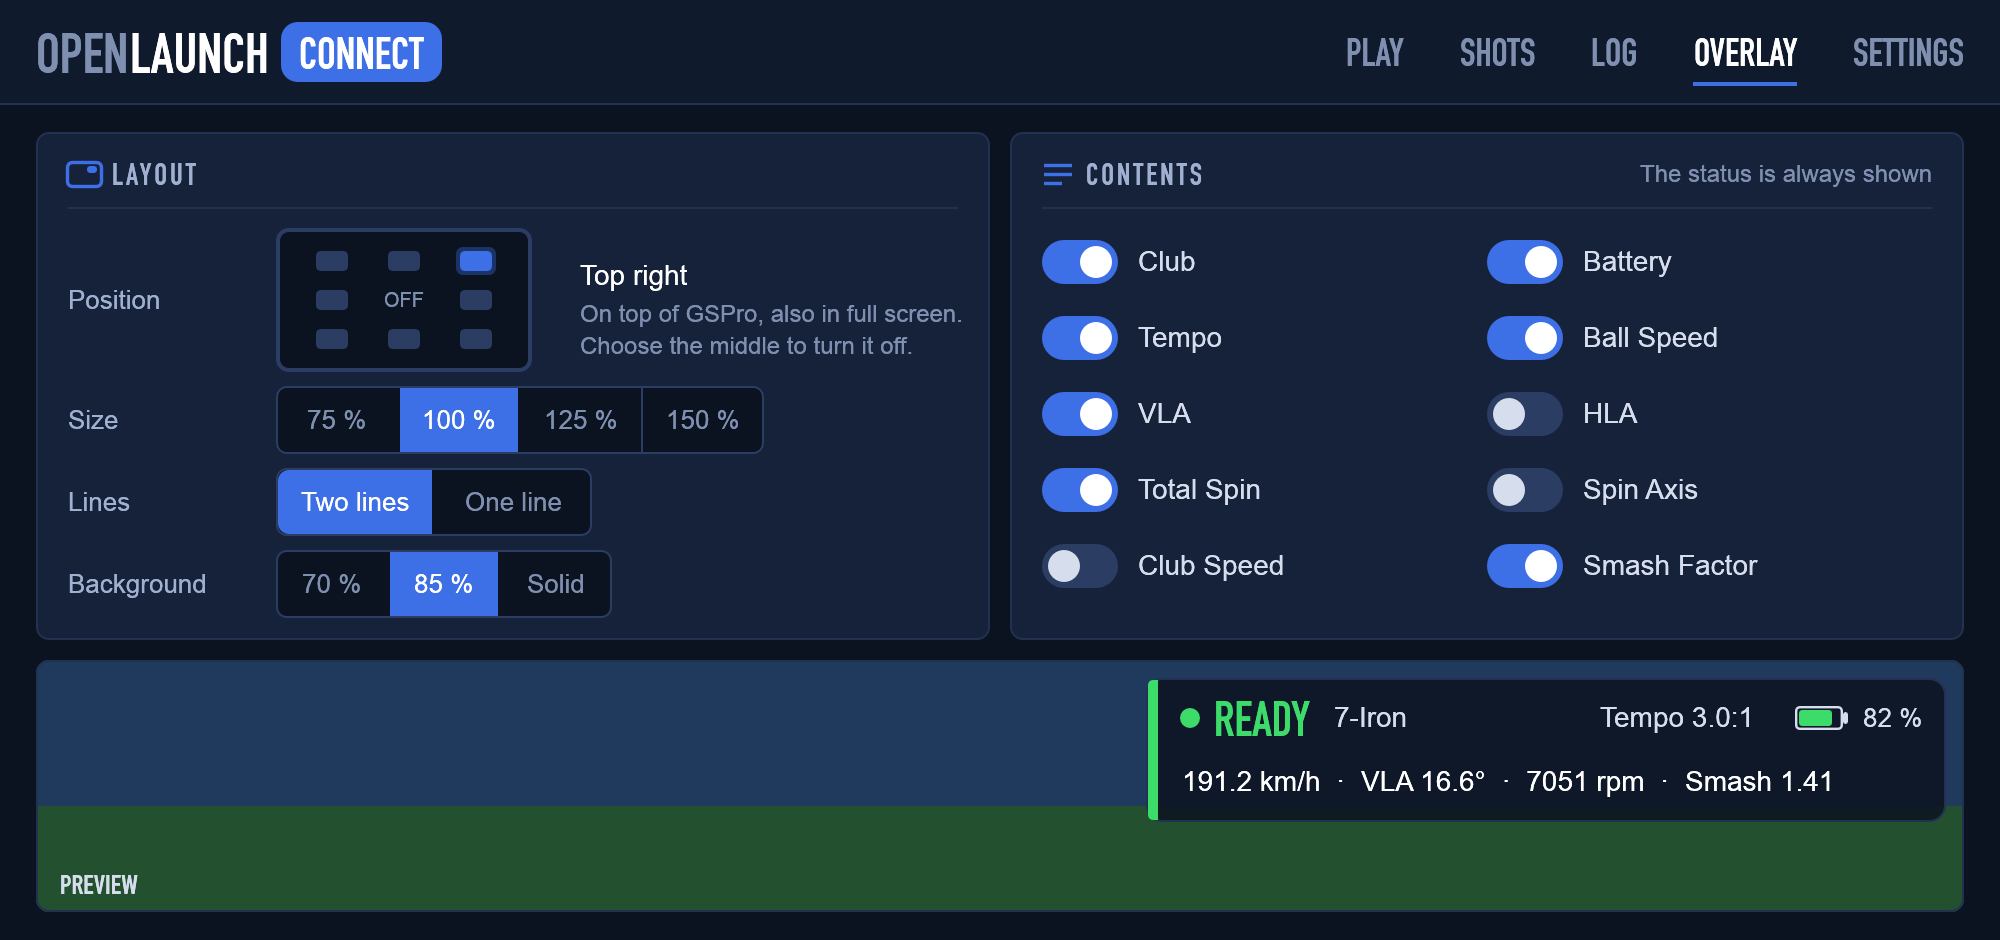
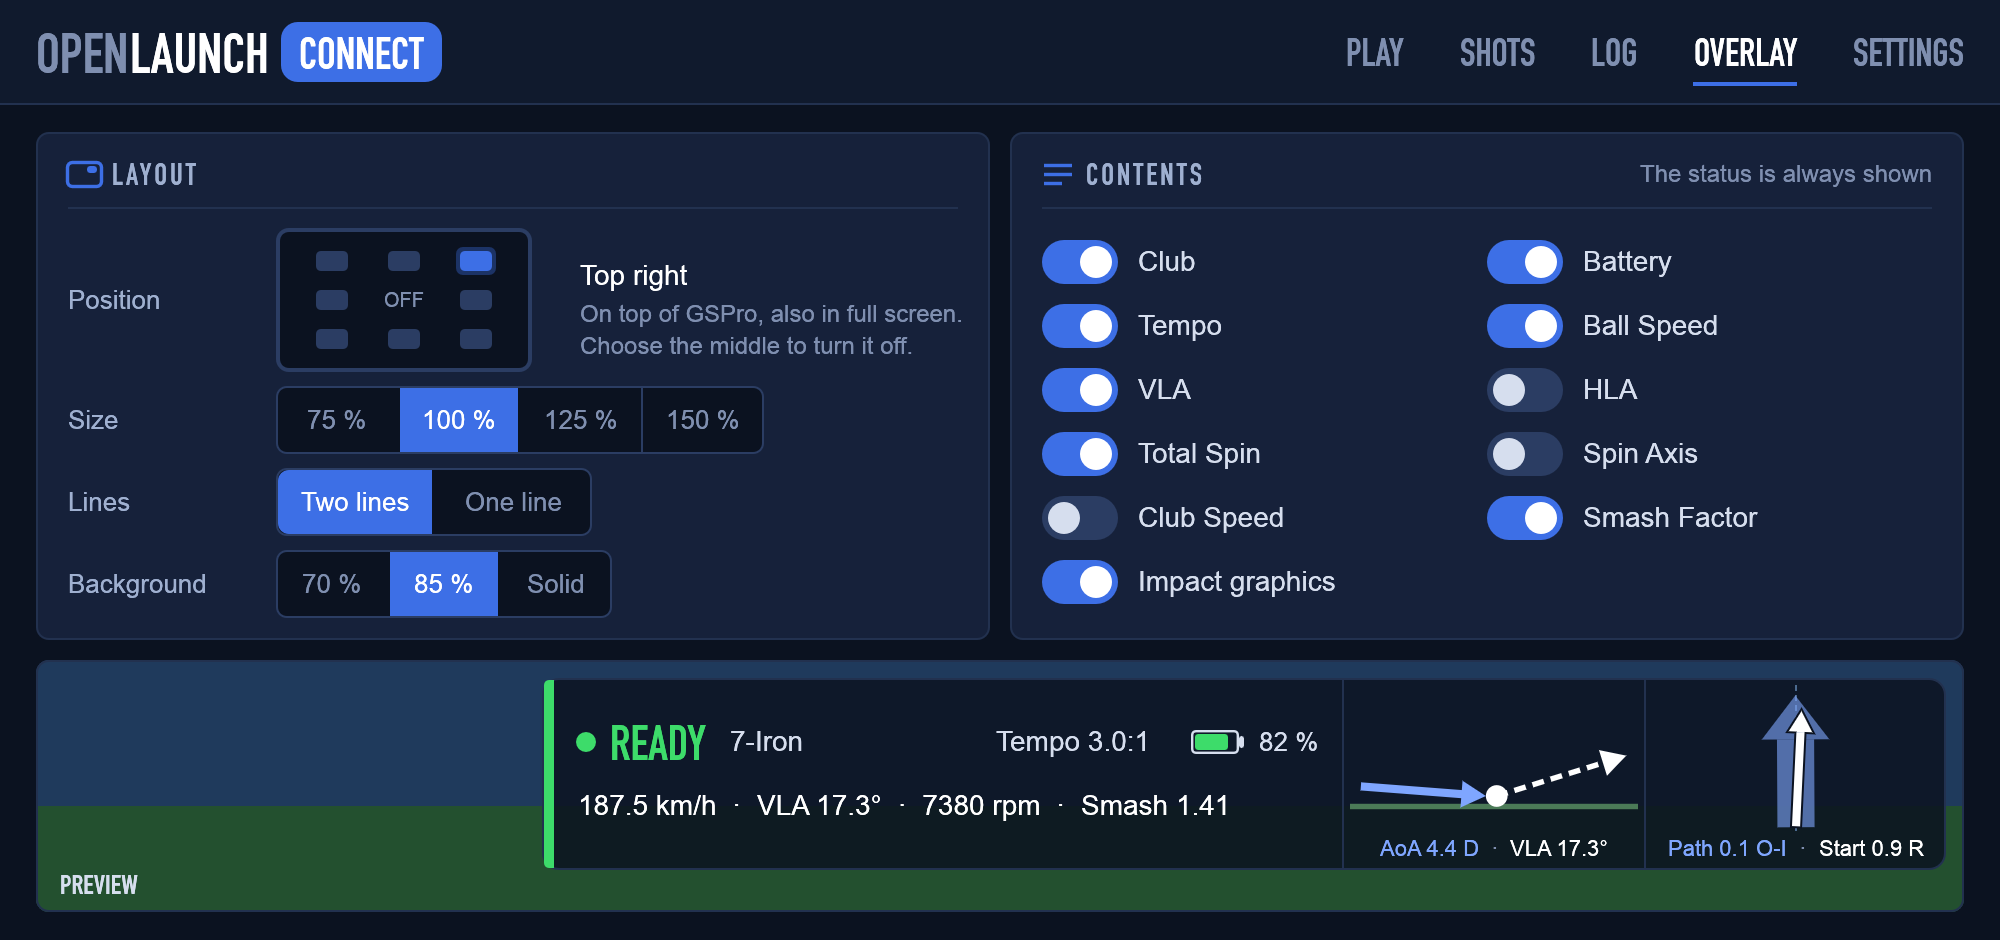
Overlay: impact graphics (angle of attack / launch angle, club path / start direction)
Two small graphics right of the text, as in the mock: side view with the
club head arriving at the angle of attack and the ball leaving at VLA; top
view with a broad club-path arrow (no outline) and a narrow start-direction
arrow on top, angles drawn 3x. Values as captions underneath; the two-line
overlay grows to 96 px with them, the one-line one keeps small graphics
without captions. Toggle on the overlay page. Also: the page-name test no
longer switches the global language (raced other tests).

Changed region(s): [[0.248, 0.7096, 0.992, 0.9255], [0.496, 0.3085, 0.682, 0.6479], [0.744, 0.3085, 0.868, 0.6479]]

diff --git a/src/bin/openlaunch-connect.rs b/src/bin/openlaunch-connect.rs
@@ -849,7 +849,7 @@ impl App {
 
         card(ui, right, tr("CONTENTS"), Icon::List, |ui| {
             let s = &mut style;
-            let items: [(&mut bool, &str); 10] = [
+            let items: [(&mut bool, &str); 11] = [
                 (&mut s.club, tr("Club")),
                 (&mut s.battery, tr("Battery")),
                 (&mut s.tempo, tr("Tempo")),
@@ -860,11 +860,12 @@ impl App {
                 (&mut s.spin_axis, tr("Spin Axis")),
                 (&mut s.club_speed, tr("Club Speed")),
                 (&mut s.smash, tr("Smash Factor")),
+                (&mut s.impact, tr("Impact graphics")),
             ];
             let body = ui.max_rect();
             let cell_w = body.width() / 2.0;
             for (i, (on, label)) in items.into_iter().enumerate() {
-                let r = Rect::from_min_size(body.min + vec2((i % 2) as f32 * cell_w, (i / 2) as f32 * 38.0), vec2(cell_w, 34.0));
+                let r = Rect::from_min_size(body.min + vec2((i % 2) as f32 * cell_w, (i / 2) as f32 * 32.0), vec2(cell_w, 30.0));
                 ui.scope_builder(egui::UiBuilder::new().max_rect(r).layout(egui::Layout::left_to_right(egui::Align::Center)), |ui| {
                     toggle(ui, on, label);
                 });
@@ -1679,6 +1680,8 @@ fn status_word(r10: R10Status, gs_ok: bool) -> (Color32, &'static str) {
 /// Overlay content: status, club and battery on top; last shot (or what's wrong) below.
 /// Space for the battery at the right of the overlay's status row.
 const OVERLAY_BATTERY_W: f32 = 96.0;
+/// Height of the two-line overlay with the impact graphics.
+const OVERLAY_IMPACT_H: f32 = 96.0;
 
 /// What the overlay shows: the status word, the chosen extras and one line with the
 /// chosen values of the last shot (or what's wrong).
@@ -1692,6 +1695,17 @@ struct OverlayContent {
     line_color: Color32,
     one_line: bool,
     opacity: f32,
+    /// Angles for the impact graphics (when on and a shot is shown).
+    impact: Option<Impact>,
+}
+
+/// What the impact graphics show, in degrees: angle of attack and club path need club data.
+#[derive(Clone, Copy)]
+struct Impact {
+    aoa: Option<f64>,
+    vla: f64,
+    path: Option<f64>,
+    hla: f64,
 }
 
 impl OverlayContent {
@@ -1731,7 +1745,14 @@ impl OverlayContent {
             }
             (None, true) => (tr("Hit away").to_string(), SOFT),
         };
+        let impact = last.filter(|s| style.impact && ready && s.delivered).map(|s| Impact {
+            aoa: s.club.map(|c| c.angle_of_attack),
+            vla: s.ball.vla,
+            path: s.club.map(|c| c.path),
+            hla: s.ball.hla,
+        });
         Self {
+            impact,
             color,
             word,
             club: club.filter(|_| style.club).map(club_name),
@@ -1749,15 +1770,23 @@ impl OverlayContent {
         let w = |text: &str, font: FontId| ctx.fonts_mut(|f| f.layout_no_wrap(text.to_string(), font, WHITE).size().x);
         let extra = |text: &Option<String>, gap: f32| text.as_deref().map_or(0.0, |t| gap + w(t, FontId::proportional(14.0)));
         let battery = if self.battery.is_some() { OVERLAY_BATTERY_W } else { 14.0 };
-        if self.one_line {
+        let text = if self.one_line {
             let line = if self.line.is_empty() { 0.0 } else { 16.0 + w(&self.line, FontId::proportional(14.0)) };
             let width = 18.0 + 16.0 + w(self.word, cond(20.0)) + extra(&self.club, 12.0) + line + battery;
             vec2(width.ceil(), 40.0)
         } else {
             let top = 18.0 + 16.0 + w(self.word, cond(24.0)) + extra(&self.club, 12.0) + extra(&self.tempo, 24.0) + battery;
             let bottom = 18.0 + w(&self.line, FontId::proportional(14.0)) + 14.0;
-            vec2(top.max(bottom).max(OVERLAY_SIZE.x).ceil(), OVERLAY_SIZE.y)
-        }
+            // Taller with the impact graphics, which have their values underneath.
+            let h = if self.impact.is_some() { OVERLAY_IMPACT_H } else { OVERLAY_SIZE.y };
+            vec2(top.max(bottom).max(OVERLAY_SIZE.x).ceil(), h)
+        };
+        text + vec2(self.graphics_width(), 0.0)
+    }
+
+    /// Room for the two impact graphics on the right (none without them).
+    fn graphics_width(&self) -> f32 {
+        if self.impact.is_some() { 2.0 * (impact_panel_width(self.one_line) + 1.0) } else { 0.0 }
     }
 }
 
@@ -1797,9 +1826,25 @@ fn overlay_ui(p: &egui::Painter, rect: Rect, c: &OverlayContent) {
         CornerRadius { nw: 7, sw: 7, ne: 0, se: 0 },
         c.color,
     );
+    // The impact graphics take the right end; the text the rest.
+    let graphics = c.graphics_width();
+    if let Some(impact) = c.impact {
+        let w = impact_panel_width(c.one_line);
+        let side = Rect::from_min_size(pos2(rect.right() - graphics + 1.0, rect.top()), vec2(w, rect.height()));
+        let top = side.translate(vec2(w + 1.0, 0.0));
+        for r in [side, top] {
+            p.line_segment([pos2(r.left() - 0.5, rect.top() + 1.0), pos2(r.left() - 0.5, rect.bottom() - 1.0)], Stroke::new(1.0, LINE));
+        }
+        let labels = !c.one_line;
+        impact_side(p, side, impact, labels);
+        impact_top(p, top, impact, labels);
+    }
+    let rect = Rect::from_min_max(rect.min, pos2(rect.right() - graphics, rect.bottom()));
 
     let left = rect.left() + 18.0;
-    let row_y = if c.one_line { rect.center().y } else { rect.top() + 20.0 };
+    // Two lines keep their distance in a taller overlay, centred.
+    let inset = 20.0 + ((rect.height() - OVERLAY_SIZE.y) / 2.0).max(0.0);
+    let row_y = if c.one_line { rect.center().y } else { rect.top() + inset };
     p.circle_filled(pos2(left + 4.0, row_y), 5.0, c.color);
     let size = if c.one_line { 20.0 } else { 24.0 };
     let mut x = caps_text(p, pos2(left + 16.0, row_y), egui::Align::Min, c.word, size, c.color).right();
@@ -1813,8 +1858,124 @@ fn overlay_ui(p: &egui::Painter, rect: Rect, c: &OverlayContent) {
         let right = rect.right() - if c.battery.is_some() { OVERLAY_BATTERY_W } else { 14.0 };
         p.text(pos2(right, row_y), Align2::RIGHT_CENTER, tempo, FontId::proportional(14.0), SOFT);
     }
-    let line_pos = if c.one_line { pos2(x + 16.0, row_y) } else { pos2(left, rect.bottom() - 20.0) };
+    let line_pos = if c.one_line { pos2(x + 16.0, row_y) } else { pos2(left, rect.bottom() - inset) };
     p.text(line_pos, Align2::LEFT_CENTER, &c.line, FontId::proportional(14.0), c.line_color);
+}
+
+/// Width of one impact graphic: room for its caption with two lines, small in one line.
+fn impact_panel_width(one_line: bool) -> f32 {
+    if one_line { 50.0 } else { 150.0 }
+}
+
+/// Room for a graphic's caption underneath (two lines only).
+const IMPACT_CAPTION_H: f32 = 18.0;
+
+/// Two values under a graphic, centred, each in its colour: "AoA 3.5 D · VLA 17.4°".
+fn impact_caption(p: &egui::Painter, r: Rect, parts: &[(String, Color32)]) {
+    let font = FontId::proportional(11.0);
+    let sep = "  ·  ";
+    let galleys: Vec<_> = parts.iter().map(|(t, c)| p.layout_no_wrap(t.clone(), font.clone(), *c)).collect();
+    let sep_w = p.layout_no_wrap(sep.to_string(), font.clone(), MUTED).size().x;
+    let total = galleys.iter().map(|g| g.size().x).sum::<f32>() + sep_w * (galleys.len().saturating_sub(1)) as f32;
+    let y = r.bottom() - IMPACT_CAPTION_H / 2.0 - 2.0;
+    let mut x = r.center().x - total / 2.0;
+    for (k, g) in galleys.into_iter().enumerate() {
+        if k > 0 {
+            p.text(pos2(x, y), Align2::LEFT_CENTER, sep, font.clone(), MUTED);
+            x += sep_w;
+        }
+        let w = g.size().x;
+        p.galley(pos2(x, y - g.size().y / 2.0), g, WHITE);
+        x += w;
+    }
+}
+
+/// Map the part `view` of the mock's 118 × 94 drawing space into `r`, centred, same scale both ways.
+fn impact_space(r: Rect, view: Rect) -> impl Fn(f32, f32) -> egui::Pos2 {
+    let s = (r.width() / view.width()).min(r.height() / view.height());
+    let origin = r.center() - view.center().to_vec2() * s;
+    move |x, y| origin + vec2(x, y) * s
+}
+
+/// Filled arrow head at `tip`, pointing away from `from`.
+fn arrow_head(p: &egui::Painter, from: egui::Pos2, tip: egui::Pos2, size: f32, color: Color32) {
+    let d = (tip - from).normalized();
+    let n = vec2(-d.y, d.x);
+    let base = tip - d * size;
+    p.add(egui::Shape::convex_polygon(vec![tip, base + n * size * 0.55, base - n * size * 0.55], color, Stroke::NONE));
+}
+
+/// Side view of the impact: the club head arriving at the angle of attack (blue, negative is
+/// down), the ball leaving at the launch angle (white, dashed).
+fn impact_side(p: &egui::Painter, r: Rect, i: Impact, labels: bool) {
+    let draw = if labels { Rect::from_min_max(r.min + vec2(0.0, 2.0), r.max - vec2(0.0, IMPACT_CAPTION_H)) } else { r };
+    // Club and ball stay between y 20 and 84: zoom into that band.
+    let at = impact_space(draw, Rect::from_min_max(pos2(4.0, 20.0), pos2(114.0, 76.0)));
+    let s = at(1.0, 0.0).x - at(0.0, 0.0).x;
+    p.line_segment([at(6.0, 66.0), at(112.0, 66.0)], Stroke::new(2.0 * s, Color32::from_rgb(0x4b, 0x7a, 0x57)));
+    if let Some(aoa) = i.aoa {
+        let a = aoa.to_radians() as f32;
+        let start = at(56.0 - 46.0 * a.cos(), 62.0 + 46.0 * a.sin());
+        let end = at(56.0, 62.0);
+        p.line_segment([start, end - (end - start).normalized() * 6.0 * s], Stroke::new(3.0 * s, ICON));
+        arrow_head(p, start, end, 9.0 * s, ICON);
+    }
+    let v = i.vla.to_radians() as f32;
+    let ball = at(60.0, 62.0);
+    let out = at(60.0 + 50.0 * v.cos(), 62.0 - 50.0 * v.sin());
+    p.extend(egui::Shape::dashed_line(&[ball, out - (out - ball).normalized() * 6.0 * s], Stroke::new(2.0 * s, WHITE), 4.0 * s, 3.0 * s));
+    arrow_head(p, ball, out, 9.0 * s, WHITE);
+    p.circle_filled(ball, 4.0 * s, WHITE);
+    if labels {
+        let mut parts: Vec<(String, Color32)> = i.aoa.map(|aoa| (format!("AoA {}", dir(aoa, "U", "D")), ICON)).into_iter().collect();
+        parts.push((format!("VLA {}°", num(i.vla, 1)), WHITE));
+        impact_caption(p, r, &parts);
+    }
+}
+
+/// Top view of the impact over the target line (dashed): a broad arrow along the club path
+/// (blue, no outline) with a narrow arrow for the start direction on top (white). The angles are
+/// drawn three times larger; the numbers are the real ones.
+fn impact_top(p: &egui::Painter, r: Rect, i: Impact, labels: bool) {
+    let draw = if labels { Rect::from_min_max(r.min + vec2(0.0, 2.0), r.max - vec2(0.0, IMPACT_CAPTION_H)) } else { r };
+    let at = impact_space(draw, Rect::from_min_max(pos2(0.0, 2.0), pos2(118.0, 92.0)));
+    let s = at(1.0, 0.0).x - at(0.0, 0.0).x;
+    p.extend(egui::Shape::dashed_line(&[at(59.0, 4.0), at(59.0, 90.0)], Stroke::new(1.0, Color32::from_rgb(0x4b, 0x6a, 0x8f)), 3.0 * s, 3.0 * s));
+    // Outline of an arrow from the base (59, 88) at `deg`: shaft, neck, head, in drawing units.
+    let arrow = |deg: f64, len: f32, shaft: f32, head_w: f32, head_l: f32| {
+        let a = (deg * 3.0).to_radians() as f32;
+        let (ux, uy) = (a.sin(), -a.cos());
+        let (px, py) = (-uy, ux);
+        let pt = |along: f32, across: f32| at(59.0 + ux * along + px * across, 88.0 + uy * along + py * across);
+        let neck = len - head_l;
+        let shaft_pts = vec![pt(0.0, -shaft / 2.0), pt(neck, -shaft / 2.0), pt(neck, shaft / 2.0), pt(0.0, shaft / 2.0)];
+        let head_pts = vec![pt(neck, -head_w / 2.0), pt(len, 0.0), pt(neck, head_w / 2.0)];
+        let outline = vec![
+            pt(0.0, -shaft / 2.0),
+            pt(neck, -shaft / 2.0),
+            pt(neck, -head_w / 2.0),
+            pt(len, 0.0),
+            pt(neck, head_w / 2.0),
+            pt(neck, shaft / 2.0),
+            pt(0.0, shaft / 2.0),
+        ];
+        (shaft_pts, head_pts, outline)
+    };
+    if let Some(path) = i.path {
+        let (shaft, head, _) = arrow(path, 78.0, 22.0, 40.0, 26.0);
+        let blue = ICON.gamma_multiply(0.6);
+        p.add(egui::Shape::convex_polygon(shaft, blue, Stroke::NONE));
+        p.add(egui::Shape::convex_polygon(head, blue, Stroke::NONE));
+    }
+    let (shaft, head, outline) = arrow(i.hla, 70.0, 6.0, 16.0, 14.0);
+    p.add(egui::Shape::convex_polygon(shaft, WHITE, Stroke::NONE));
+    p.add(egui::Shape::convex_polygon(head, WHITE, Stroke::NONE));
+    p.add(egui::Shape::closed_line(outline, Stroke::new(1.0, PAGE)));
+    if labels {
+        let mut parts: Vec<(String, Color32)> = i.path.map(|path| (format!("{} {}", tr("Path"), dir(path, "I-O", "O-I")), ICON)).into_iter().collect();
+        parts.push((format!("Start {}", dir(i.hla, "R", "L")), WHITE));
+        impact_caption(p, r, &parts);
+    }
 }
 
 /// The overlay position as a small screen with eight spots; the middle turns the overlay off.
@@ -2033,8 +2194,11 @@ mod tests {
             save(&harness.render().unwrap(), name);
         }
 
+        // Wide enough for the impact graphics; cropped to the overlay below.
+        let drawn = std::rc::Rc::new(std::cell::Cell::new(Rect::ZERO));
+        let size_out = drawn.clone();
         let mut harness = Harness::builder()
-            .with_size(OVERLAY_SIZE)
+            .with_size(vec2(OVERLAY_SIZE.x + 2.0 * (impact_panel_width(false) + 1.0) + 120.0, OVERLAY_IMPACT_H + 20.0))
             .with_pixels_per_point(2.0)
             .wgpu()
             .build_ui(|ui| {
@@ -2042,6 +2206,7 @@ mod tests {
                 if ui.ctx().fonts(|f| f.families().contains(&FontFamily::Name("cond".into()))) {
                     let content = OverlayContent::live(&OverlayStyle::default(), true);
                     let rect = Rect::from_min_size(ui.max_rect().min, content.size(ui.ctx()));
+                    size_out.set(rect);
                     overlay_ui(ui.painter(), rect, &content);
                 } else {
                     setup_style(ui.ctx());
@@ -2050,7 +2215,10 @@ mod tests {
         for _ in 0..3 {
             harness.step();
         }
-        save(&harness.render().unwrap(), "screenshot-overlay.png");
+        let r = drawn.get();
+        let (min, size) = (r.min * 2.0, r.size() * 2.0);
+        let image = image::imageops::crop_imm(&harness.render().unwrap(), min.x as u32, min.y as u32, size.x as u32, size.y as u32).to_image();
+        save(&image, "screenshot-overlay.png");
     }
 
     #[test]

diff --git a/src/bin/openlaunch-connect/explorer.rs b/src/bin/openlaunch-connect/explorer.rs
@@ -1877,16 +1877,13 @@ mod tests {
     }
 
     #[test]
-    fn default_page_names_follow_the_language() {
+    fn default_page_names_are_recognised_in_both_languages() {
+        // English only: switching the global language would race other tests.
         let page = |name: &str| ExplorerPage { name: name.into(), tiles: Vec::new() };
-        i18n::set(Language::German);
-        assert_eq!(page_name(&page("Ball flight"), 1), "Ballflug");
-        assert_eq!(page_name(&page("Daten"), 2), "Daten");
-        assert_eq!(page_name(&page("Driver only"), 0), "Driver only");
-        assert_eq!(page_name(&page(""), 3), "Seite 4");
-        i18n::set(Language::English);
         assert_eq!(page_name(&page("Ballflug"), 1), "Ball flight", "typed in German, shown in English");
         assert_eq!(page_name(&page("Daten"), 2), "Data");
+        assert_eq!(page_name(&page("Driver only"), 0), "Driver only");
+        assert_eq!(page_name(&page(""), 3), "Page 4");
     }
 
     #[test]

diff --git a/src/i18n.rs b/src/i18n.rs
@@ -200,6 +200,8 @@ fn de(en: &str) -> Option<&'static str> {
         "Language" => "Sprache",
         "System" => "System",
         "Interface" => "Oberfläche",
+        "Impact graphics" => "Treffmoment-Grafik",
+        "Path" => "Bahn",
         "Range" => "Range",
         "Ball flight" => "Ballflug",
         "Data" => "Daten",
@@ -386,6 +388,13 @@ mod tests {
             }
         }
         assert!(missing.is_empty(), "missing German texts: {missing:#?}");
+    }
+
+    #[test]
+    fn texts_are_recognised_in_both_languages() {
+        assert!(is_text("Ball flight", "Ball flight"));
+        assert!(is_text("Ball flight", "Ballflug"));
+        assert!(!is_text("Ball flight", "Range"));
     }
 
     #[test]

diff --git a/src/settings.rs b/src/settings.rs
@@ -260,6 +260,9 @@ pub struct OverlayStyle {
     pub spin_axis: bool,
     pub club_speed: bool,
     pub smash: bool,
+    /// Graphics of the impact next to the text: angle of attack and launch angle from the side,
+    /// club path and start direction from above.
+    pub impact: bool,
 }
 
 impl Default for OverlayStyle {
@@ -279,6 +282,7 @@ impl Default for OverlayStyle {
             spin_axis: false,
             club_speed: false,
             smash: true,
+            impact: true,
         }
     }
 }

diff --git a/CHANGELOG.md b/CHANGELOG.md
@@ -12,6 +12,10 @@ The format is based on [Keep a Changelog](https://keepachangelog.com/en/1.1.0/),
   preview. Changes apply at once. The overlay's position moved here from the settings.
 - **Exclude shots:** select shots on the shots page and *Exclude* them to leave them out of the averages and CSV
   exports (e.g. misreads); they stay listed, struck through, and *Count* takes them back. Kept in the shot history.
+- **Impact graphics in the overlay** (Overlay page → *Impact graphics*, on by default): next to the values, the
+  club head arriving at the angle of attack and the ball leaving at the launch angle (side view), and a broad
+  arrow for the club path with a narrow one for the start direction (top view, angles drawn three times larger),
+  with the numbers underneath. Small and without numbers in the one-line overlay.
 - **Estimated carry and total distance** on the shots page, per shot and as averages per club (in metres or
   yards, chosen separately from the speed unit in Settings → Display). GSPro doesn't send its own results back,
   so they are estimated from the launch data (no wind, sea level) and marked with *; GSPro may show other numbers.
